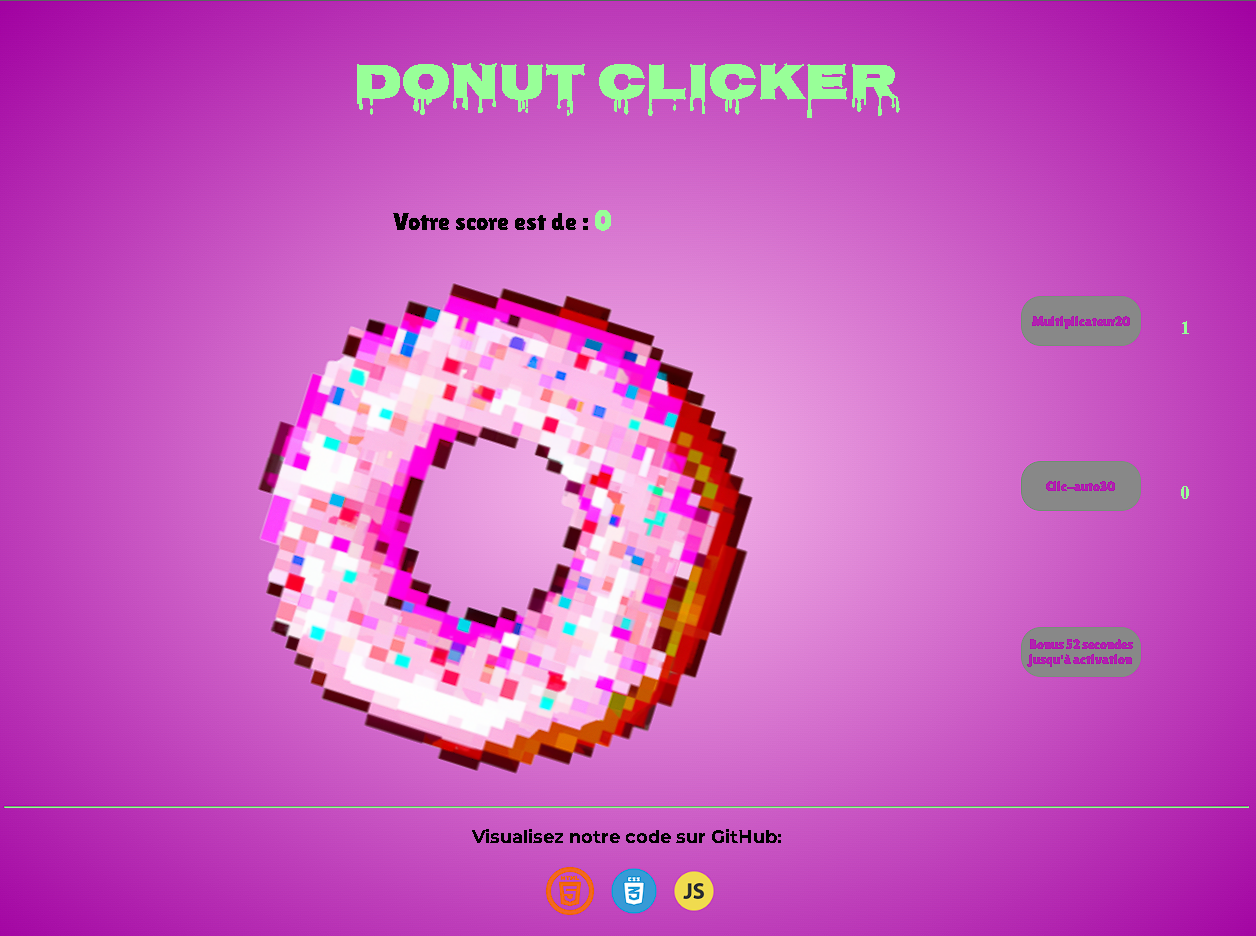
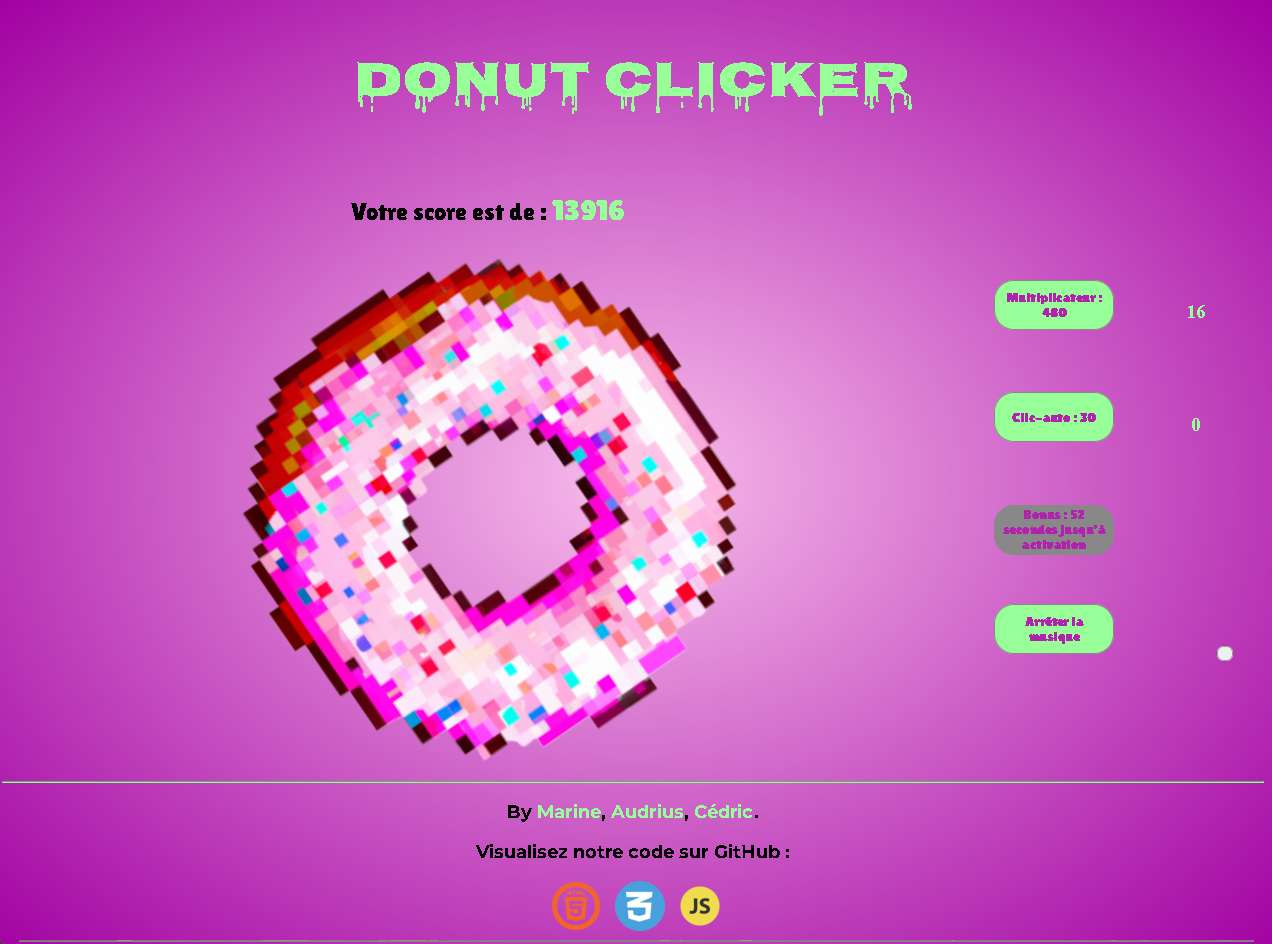
libellé

diff --git a/cookie-clicker/style.css b/cookie-clicker/style.css
@@ -43,7 +43,7 @@
   #setup {
     display: grid;
     grid-template-columns: repeat(2, 1fr);
-    grid-template-rows: repeat(3, auto);
+    grid-template-rows: repeat(4, auto);
     grid-column: 1/5;
     grid-row: 4;
     max-width: 250px;
@@ -73,9 +73,14 @@
   #setup button:hover{
     /*transform: scale(1.2);*/
   }
-  #btn-multi{
+  #btn-stop {
     grid-column: 1;
-    grid-row: 1;
+    grid-row: 4;
+    margin-top: 10px;
+  }
+  #volume{
+    grid-column: 2;
+    grid-row: 4;
   }
   #btn-multi{
     grid-column: 1;
@@ -105,16 +110,6 @@
   #btn-auto {
     grid-column: 1;
     grid-row: 2;
-  }
-
-  #btn-bonus {
-    grid-column: 1;
-    grid-row: 2;
-  }
-
-  #btn-auto {
-    grid-column: 1;
-    grid-row: 3;
   }
 
   #img-resp {
@@ -252,10 +247,12 @@
     grid-row: 4;
     background-color: #98FF98 !important;
   }
+
   #volume{
     grid-column: 2;
     grid-row: 4;
   }
+ 
 
 input[type=range]{
     -webkit-appearance: none;
